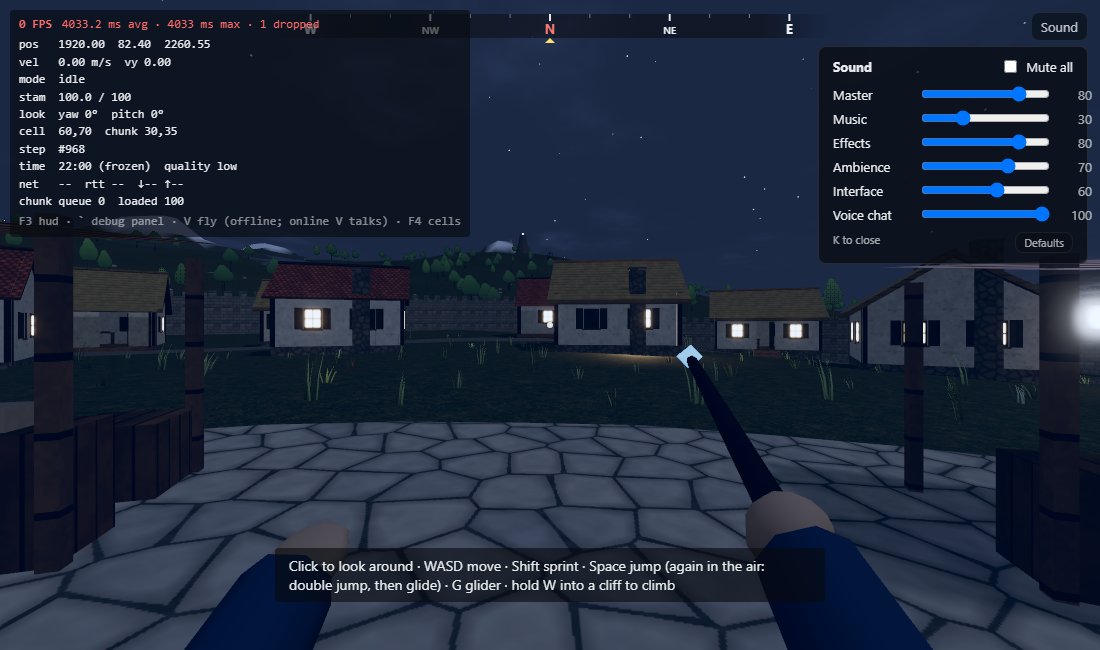
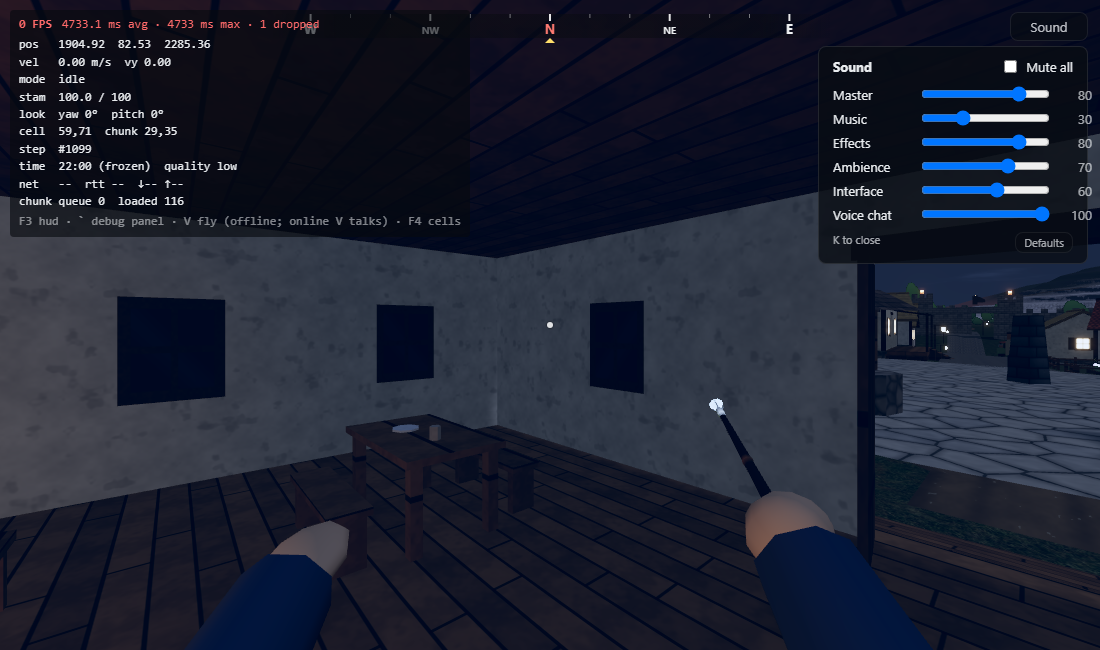
Audio QoL: headless evidence 32/32 (rain under a roof, loops, limits, hidden tab)

diff --git a/docs/STATUS.md b/docs/STATUS.md
@@ -1089,7 +1089,7 @@ Nicole's playtest ask: "rain and fire should be quieter if you are farther and r
 - **One-shot hygiene** (`voiceLimit.ts`): same cue at the same place within 70 ms is one sound; at most 3 starts of a cue per 45 ms (area hits); never the same variant twice running; +/-10 % gain on top of the pitch spread; 4 ms ramps on mid-file starts. Footsteps by surface: grass, stone (streets, caves, stone town boxes), wood (floors, decks, bridges: new `step_wood`), wading (`step_water`), snow (snowpeak biome; `step_snow` finally wired).
 - **Mix**: ambience also ducks under big stings (72 %) besides music (50 %); voice chat still ducks music 35 % / ambience 60 % / sfx 80 %; a hidden tab fades music, ambience and effects out (voice stays) and back in. All of it is pure logic in tested modules (`spatial`, `acoustics`, `shelter`, `surface`, `voiceLimit`, `loopPool`, `emitters`), run by the engine at 10 Hz (listener/occlusion/loop selection), never per frame per source.
 - **Budget**: the audio engine chunk grows to 88 KB / 28 KB gzip (lazy, loaded after the first playable frame; first-frame JS unchanged); the four loop textures are ~3.4 MB of PCM (6-9 s, 32 kHz mono); the 10 Hz pass is a few grid lookups, ~100 wasm water samples twice a second and at most 8 loop voices.
-- **Tests**: `npx vitest run src/audio`: 9 files, 82 tests (incl. the shelter probe on the official world's first 400 closed buildings: roof over every middle, door step outside). Full client suite 48 files / 417 tests pass. Headless (`node client/src/audio/dev/audio-browser.mjs`): HEADLESS_RESULT.
+- **Tests**: `npx vitest run src/audio`: 9 files, 82 tests (incl. the shelter probe on the official world's first 400 closed buildings: roof over every middle, door step outside). Full client suite 48 files / 417 tests pass. Headless (`node client/src/audio/dev/audio-browser.mjs`, solo production build): **32/32** (the 25 earlier checks plus: environment pass, rain outdoors vs inside an inn (weather gain 1 -> 0.23, low-pass 16 kHz -> 664 Hz, roof rain 0 -> 0.36, room reverb 0.32, bus low-pass 11 kHz), wooden floor footsteps, town fires as capped loop voices, 9 of 11 burst hits suppressed, hidden tab -48 -> -180 dBFS, no page errors), `docs/evidence/audio-headless.txt`.
 
 Gaps: occlusion is by space, not ray-cast, and ignores open doors; smiths hammer whether or not the blacksmith NPC is at the forge; no waterfalls (worldgen has none to find); remote players' footsteps still unvoiced; the loop textures and thunder are synthesized, so a listening pass by Nicole is the real acceptance (levels are single numbers in `spatial.ts` LOOP_PROFILES and `acoustics.ts`).
 
